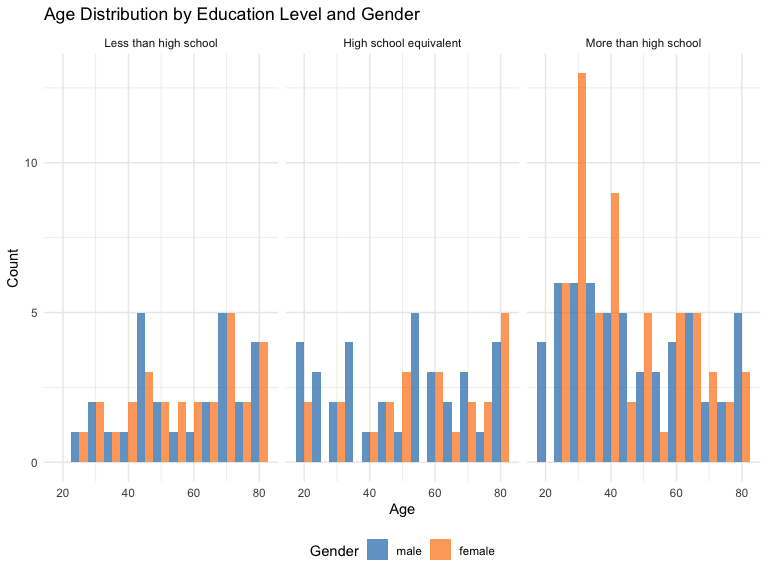
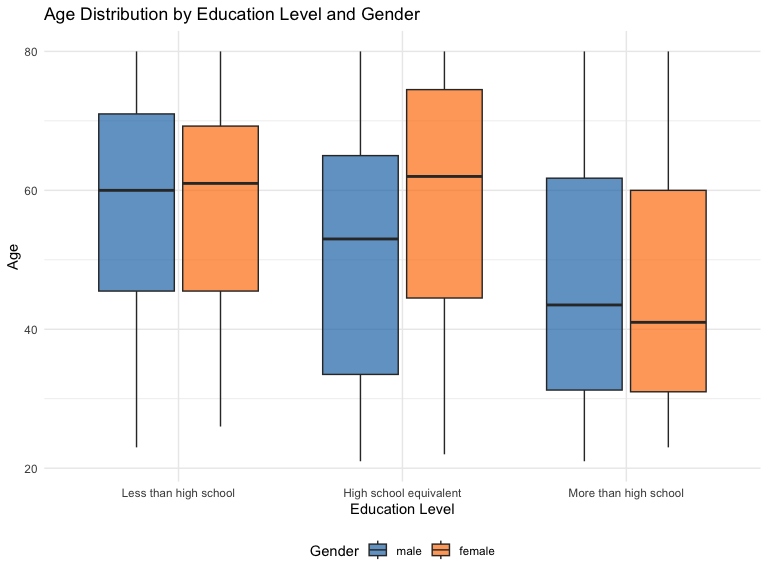
changed to boxplot, total actvity plot

diff --git a/p8105_hw3_yl5505.md b/p8105_hw3_yl5505.md
@@ -202,7 +202,7 @@ hw_ac
     ## #   min35 <dbl>, min36 <dbl>, min37 <dbl>, min38 <dbl>, min39 <dbl>, …
 
 ``` r
-hw_ac_cleaned = hw_ac |>
+ac_clean = hw_ac |>
   filter(age >= 21) |>
   drop_na()|>
   mutate(
@@ -214,7 +214,7 @@ hw_ac_cleaned = hw_ac |>
 ## create table for the number of men and women in each education category
 
 ``` r
-edu_table = hw_ac_cleaned |>
+edu_table = ac_clean |>
   group_by(education, sex) |>
   summarize(count = n(), .groups = "drop") |>
   pivot_wider(names_from = sex, values_from = count, values_fill = 0)
@@ -231,14 +231,13 @@ edu_table|>kable()
 ## create plot
 
 ``` r
-ggplot(hw_ac_cleaned, aes(x = age, fill = sex)) +
-  geom_histogram(binwidth = 5, alpha = 0.7, position = "dodge") +
-  facet_wrap(~ education) +
+ggplot(ac_clean, aes(x = education, y = age, fill = sex)) +
+  geom_boxplot(alpha = 0.7) +
   scale_fill_manual(values = c("male" = "#1f77b4", "female" = "#ff7f0e")) +
   labs(
     title = "Age Distribution by Education Level and Gender",
-    x = "Age",
-    y = "Count",
+    x = "Education Level",
+    y = "Age",
     fill = "Gender"
   )
 ```
@@ -246,6 +245,36 @@ ggplot(hw_ac_cleaned, aes(x = age, fill = sex)) +
 <img src="p8105_hw3_yl5505_files/figure-gfm/unnamed-chunk-11-1.png" width="90%" /> -
 The table shows the gender distribution across education levels,and the
 “High school equivalent” group has fewer females compared to males. -
-The histogram shows that, in “More than high school”, the age
-distribution is more concentrated, with a visible peak in the 40-45 age
-range for both men and women.
+The boxplot shows that, in “More than high school”, the age distribution
+is more concentrated, with a visible peak in the 40-45 age range for
+both men and women. - Greater variability in age for males across all
+education levels.
+
+## Total activity Plot
+
+``` r
+ac_clean |>
+  pivot_longer(
+    min1:min1440,
+    names_to = "mim_min",
+    names_prefix = "min",
+    values_to = "mims_value"
+  ) |>
+  group_by(seqn, sex, age, education) |>
+  summarize(total = sum(mims_value, na.rm = TRUE)) |>
+  ggplot(aes(x = age, y = total, color = sex)) +
+  geom_point(ahpha = 0.5) +
+  geom_smooth (se = FALSE) +
+  facet_wrap(~ education) + 
+  labs(
+    title = "Total Daily Activity vs Age by Education Level and Gender",
+    x = "Age",
+    y = "Total Daily Activity"
+  ) 
+```
+
+    ## `summarise()` has grouped output by 'seqn', 'sex', 'age'. You can override
+    ## using the `.groups` argument.
+    ## `geom_smooth()` using method = 'loess' and formula = 'y ~ x'
+
+<img src="p8105_hw3_yl5505_files/figure-gfm/unnamed-chunk-12-1.png" width="90%" />
